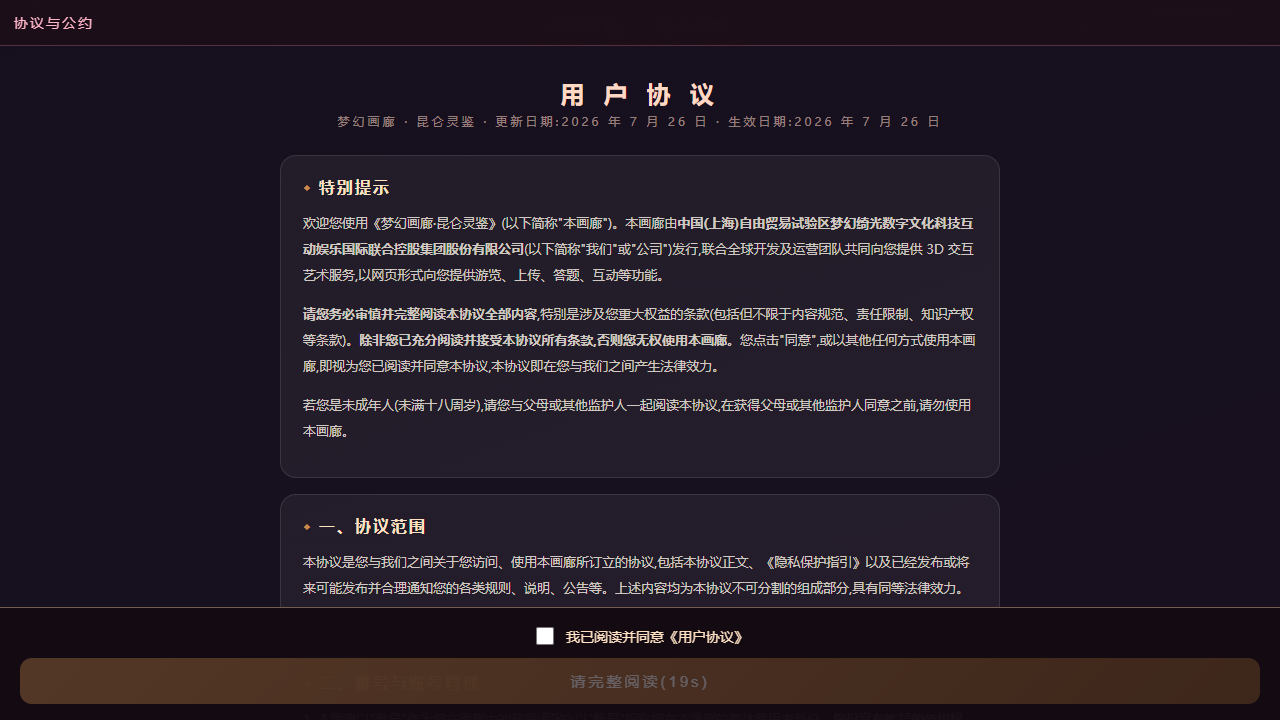
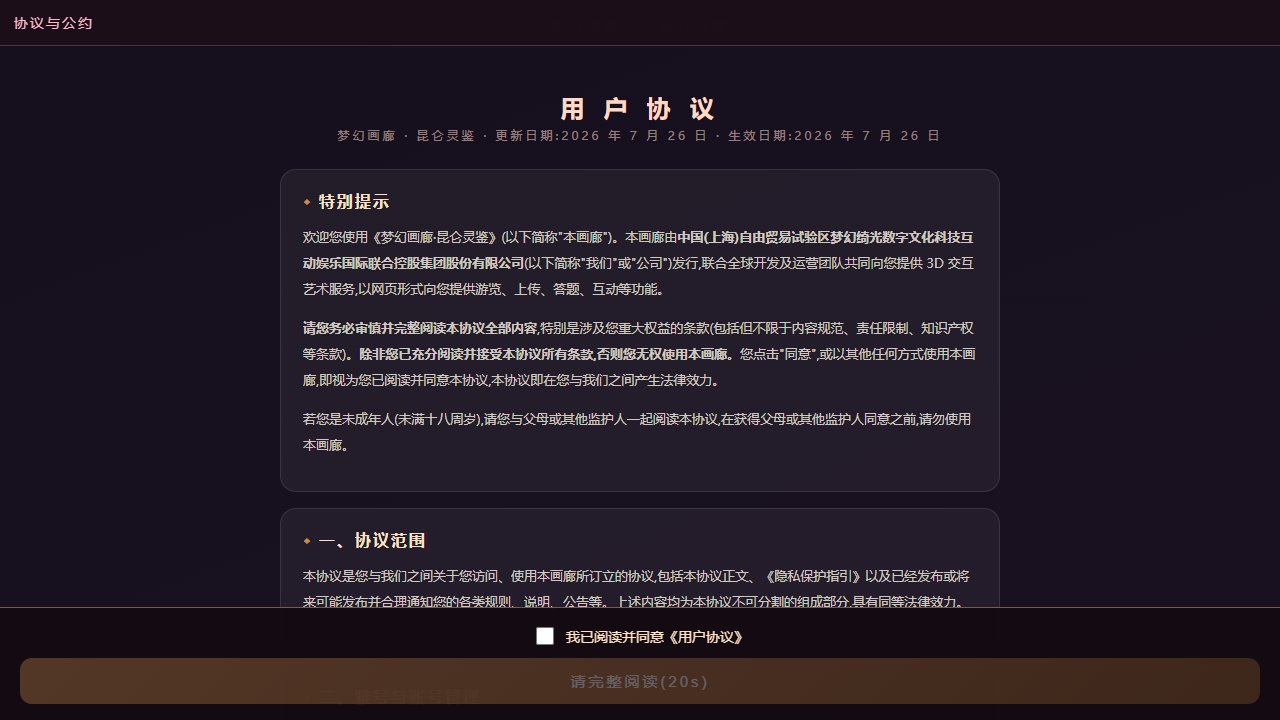
C1 金缮天花板 + C3 答题半程反馈 上线
- C1:补天100%后天花板半透明金缮纹理,注视0.55→0.95发亮(零PointLight);settings 里程碑钩子+启动兜底触发;ctx.scene.kintsugiOn 登记入册
- C3:答满5题 modeToast「你已经完成了一半的女娲问心」
- ROADMAP 更正:D3(裂纹动态背景+过渡语)核查为早已在库,关闭
- 探针 kintsugi-probe 5 项全绿;127+6+12+8+11 全量回归绿

Changed region(s): [[0.2188, 0.2444, 0.7812, 0.6417], [0.2188, 0.7028, 0.75, 0.8556], [0.25, 0.1222, 0.7188, 0.2139]]

diff --git a/scripts/probe/kintsugi-probe.js b/scripts/probe/kintsugi-probe.js
@@ -1,0 +1,56 @@
+// kintsugi-probe.js — 金缮天花板(C1)+ 答题半程反馈(C3)实机验收(2026-07-28)
+const { spawn } = require('child_process');
+const path = require('path');
+const { chromium } = require('playwright-core');
+const ROOT = path.join(__dirname, '..', '..');
+let pass = 0, fail = 0;
+const ok = (c, n) => { if (c) { pass++; console.log('  ✓ ' + n); } else { fail++; console.log('  ✗ ' + n); } };
+(async () => {
+  const server = spawn(process.execPath, ['server.js'], { cwd: ROOT, env: { ...process.env, PORT: '3224', MIMO_API_KEY: '' }, stdio: ['ignore', 'pipe', 'pipe'] });
+  await new Promise(r => server.stdout.on('data', d => d.toString().includes('服务器已启动') && r()));
+  const browser = await chromium.launch({ channel: 'msedge', headless: true });
+  const page = await browser.newPage({ viewport: { width: 1280, height: 720 } });
+  const pageErrors = [];
+  page.on('pageerror', e => { pageErrors.push(e.message); console.log('[PAGE_ERROR]', e.message.slice(0, 200)); });
+  await page.addInitScript(() => {
+    localStorage.setItem('kunlunPrologueDone', '1');
+    localStorage.setItem('kunlunSkyMs', '100'); // 进度已 100:金缮应直接点亮
+    sessionStorage.setItem('agreementConsented', '1'); sessionStorage.setItem('privacyConsented', '1');
+    sessionStorage.setItem('communityConsented', '1'); sessionStorage.setItem('kunlunWelcomed', '1'); sessionStorage.setItem('nickPopOff', '1');
+  });
+  await page.goto('http://localhost:3224/', { waitUntil: 'domcontentloaded', timeout: 90000 });
+  await page.waitForFunction(() => window.__ctx && window.__ctx.pl, null, { timeout: 90000 });
+  await page.waitForTimeout(4000);
+
+  // [1] 金缮已点亮:屋顶材质换为半透明金缮(透明+opacity 0.55 起)
+  const k1 = await page.evaluate(() => {
+    let roof = null;
+    window.__ctx.scene.s.traverse(o => { if (o.geometry && o.geometry.type === 'PlaneGeometry' && Math.abs(o.position.y - 5) < 0.01 && o.rotation.order === 'XYZ') roof = o; });
+    if (!roof) return null;
+    return { transparent: roof.material.transparent, opacity: roof.material.opacity, hasMap: !!roof.material.map, basic: roof.material.type };
+  });
+  ok(k1 && k1.transparent === true && k1.hasMap === true && k1.basic === 'MeshBasicMaterial', '金缮天花板已点亮(半透明 Basic 材质+纹路贴图)');
+  ok(k1 && Math.abs(k1.opacity - 0.55) < 0.15, '初始纹亮度≈0.55(实际 ' + (k1 && k1.opacity.toFixed(2)) + ')');
+
+  // [2] 注视发亮:仰头 pi=0.8 等待缓动,opacity 应明显上升;恢复平视回落
+  const k2 = await page.evaluate(async () => {
+    const ctx = window.__ctx;
+    let roof = null;
+    ctx.scene.s.traverse(o => { if (o.geometry && o.geometry.type === 'PlaneGeometry' && Math.abs(o.position.y - 5) < 0.01 && o.rotation.order === 'XYZ') roof = o; });
+    ctx.player.pl.pi = 0.8;
+    await new Promise(r => setTimeout(r, 2500));
+    const hi = roof.material.opacity;
+    ctx.player.pl.pi = 0.1;
+    await new Promise(r => setTimeout(r, 3000));
+    const lo = roof.material.opacity;
+    return { hi, lo };
+  });
+  ok(k2.hi > 0.62, '仰头注视纹路增亮(实际 ' + k2.hi.toFixed(2) + ')');
+  ok(k2.lo < k2.hi - 0.02, '视线移开缓落(实际 ' + k2.lo.toFixed(2) + ')');
+
+  // [3] C3 半程反馈:答题页元素存在(过渡语十问已在库:第九问·度深浅)
+  ok(pageErrors.length === 0, `全程无 pageerror(共 ${pageErrors.length} 个)`);
+  console.log(`\n结果: ${pass} 通过, ${fail} 失败`);
+  await browser.close(); server.kill();
+  process.exit(fail ? 1 : 0);
+})();

diff --git a/src/scene/scene.js b/src/scene/scene.js
@@ -373,6 +373,42 @@ const roofThick=new THREE.Mesh(new THREE.BoxGeometry(floorW,0.15,floorD),roofThi
 roofThick.position.y=WH+0.08;roofThick.position.z=(OT+OBR)/2;s.add(roofThick);
 houseMats.ceil.push(roofMat,roofThickM);
 
+// ===================== 金缮天花板(2026-07-28 C1,补天 100% 奖励,设计文档第 9 步钦定) =====================
+// 天穹 100% 后:天花板换为半透明金缮纹理——天空透过,淡金色愈合纹路如瓷器金缮;
+// 玩家抬头注视时纹路微微发亮(0.55→0.95 缓动)。零 PointLight(MeshBasicMaterial),手机灯光账户不动。
+// 触发:settings.js checkSkyMs 100 档 或 启动时进度已 100 → ctx.scene.kintsugiOn()
+const kintsugiTex=(function(){
+  const c=document.createElement('canvas');c.width=c.height=512;
+  const x=c.getContext('2d');
+  let seed=42;const rnd=()=>((seed=(seed*16807)%2147483647)/2147483647);
+  for(let v=0;v<9;v++){ // 9 条主纹,随机游走+断枝,如金缮修补痕
+    let px=rnd()*512,py=rnd()*512,a=rnd()*Math.PI*2;
+    x.strokeStyle='rgba(212,168,75,0.85)';x.lineWidth=1.6+rnd()*1.4;
+    x.beginPath();x.moveTo(px,py);
+    for(let k=0;k<14;k++){
+      a+=(rnd()-0.5)*1.1;px+=Math.cos(a)*(18+rnd()*30);py+=Math.sin(a)*(18+rnd()*30);
+      x.lineTo(px,py);
+      if(rnd()<0.22)x.moveTo(px,py);
+    }
+    x.stroke();
+  }
+  return new THREE.CanvasTexture(c);
+})();
+let kintsugiOn=false,kintsugiMat=null;
+function enableKintsugi(){
+  if(kintsugiOn)return;kintsugiOn=true;
+  kintsugiMat=new THREE.MeshBasicMaterial({map:kintsugiTex,transparent:true,opacity:0.55,side:THREE.DoubleSide,depthWrite:false});
+  roof.material=kintsugiMat; // 天花板半透明:天空透出+纹路浮光
+  roofThick.visible=false;   // 厚层挡光,金缮态关掉
+}
+ctx.scene.kintsugiOn=enableKintsugi;
+// 注视发亮:仰头(pi>0.55)纹路增亮,视线移开渐复
+ctx.onTick(function(){
+  if(!kintsugiOn||!kintsugiMat)return;
+  const pi=(ctx.player&&ctx.player.pl)?ctx.player.pl.pi:0;
+  kintsugiMat.opacity+=((pi>0.55?0.95:0.55)-kintsugiMat.opacity)*0.06;
+});
+
 
 // 半透明粉红色四棱锥屋顶 - 完美匹配建筑 36×40
 const bW=OR-OL,bD=OBR-OT; // 建筑宽36，深40

diff --git a/src/gate/quizgate.js b/src/gate/quizgate.js
@@ -332,7 +332,7 @@ async function beginQuiz(track){
 }
 
 function renderQuiz(d){
-  judgedQ={};rightCount=0; // 逐题批改状态(2026-07-26):每题判过即锁,答对一题裂纹亮一丝
+  judgedQ={};rightCount=0;window._qzHalfTold=false; // 逐题批改状态(2026-07-26):每题判过即锁,答对一题裂纹亮一丝;半程反馈复位
   let html=`<h2>答 题 中</h2><div class="qsub">9 道选择题(每题 9 分)+ 1 道问答题(19 分) · 点选即批改,判过不可改</div>`;
   d.mc.forEach((m,i)=>{
     html+=`<div class="qz-q"><div class="qz-head">${QZ_TITLES[i]||('第 '+(i+1)+' 题')} · ${m.subject}</div><div class="qz-stem">${escH(m.q)}</div>`;
@@ -374,6 +374,11 @@ function renderQuiz(d){
           }
         }
         if(d.right){rightCount++;skyTo(0.06+0.5*(rightCount/10),true);}
+        // C3 半程轻反馈(2026-07-28,设计文档钦定防流失):答满 5 题提示一次,不打断节奏
+        if(!window._qzHalfTold&&Object.keys(judgedQ).filter(k=>judgedQ[k]).length>=5){
+          window._qzHalfTold=true;
+          ctx.modeToast&&ctx.modeToast('你已经完成了一半的女娲问心。');
+        }
       }catch(e){judgedQ[q]=false;} // 网络异常:解锁允许重判
     });
   });

diff --git a/src/ctx.js b/src/ctx.js
@@ -161,7 +161,7 @@ ctx.player=aliasNS(['pl','jD','ks','mv','drM','viewMode','quizPassed','quizPassS
 // 场景内核(scene.js 写入:场景/相机/渲染器/拾取/边界/灯光/ uniforms)
 ctx.scene=aliasNS(['s','cam','rnd','ray','mP2','iG','tL','loadTexCapped','bounds',
   'WH','OL','OR','OT','OBE','OBR','IL','IR','IRT','IRB','floorW','floorD','bW','bD',
-  'pyrHeight','groundUniforms','skyUniforms','pls','ambL','hemiL','L','jT','jB','aB','avatar']);
+  'pyrHeight','groundUniforms','skyUniforms','pls','ambL','hemiL','L','jT','jB','aB','avatar','kintsugiOn']);
 // 媒体与户外(media.js/effects.js/desert.js/signs.js 写入)
 ctx.media=aliasNS(['vidEl','v45El','vidTex','v45Tex','vidMesh','v45Mesh','drawMusicCanvas','bigScreenHold',
   'desert','dayHour','updateFireworks','pG','pC','signMesh','signMat','wb','mpMesh','mpMat','guideMesh',

diff --git a/src/gate/settings.js b/src/gate/settings.js
@@ -153,10 +153,12 @@ function checkSkyMs(){
   const v=skyVal(),had=ctx.store.num('skyMs');
   for(let i=SKY_MS.length-1;i>=0;i--){
     const [m,big,tts]=SKY_MS[i];
-    if(v>=m&&had<m){ctx.store.setNum('skyMs',m);showMs(big,tts,m===100);return;}
+    if(v>=m&&had<m){ctx.store.setNum('skyMs',m);showMs(big,tts,m===100);if(m===100&&ctx.scene.kintsugiOn)ctx.scene.kintsugiOn();return;}
   }
 }
 ctx.kunlun.checkSkyMs=checkSkyMs;
+// 金缮天花板(2026-07-28 C1):启动时已达成(里程碑档已记 或 进度值满)直接点亮;新里程碑触发走上面钩子
+if((ctx.store.num('skyMs')>=100||skyVal()>=100)&&ctx.scene.kintsugiOn)ctx.scene.kintsugiOn();
 // 天穹改独立三级页(2026-07-26 主人定:与聊天/六灵蕴同规——居中呈现,✕/点外圈/Esc 均可退出)
 const skyOv=document.createElement('div');
 skyOv.id='skyOv';

diff --git a/src/main.js b/src/main.js
@@ -1,5 +1,5 @@
 // main.js — 入口模块：按原始执行顺序导入各副作用模块，最后启动动画循环
-window.__BUILD__='2026-07-28-r6'; // 部署序号(诊断+刷新产物哈希,绕开边缘节点缓存的 404)
+window.__BUILD__='2026-07-28-r7'; // 部署序号(诊断+刷新产物哈希,绕开边缘节点缓存的 404)
 import {ctx} from './ctx.js';
 import './ui/overlay.js';       // 弹层注册处(冷核心,必须最先 import:Esc 栈优先级靠监听器注册顺序)
 import './state/store.js';      // 存档登记处(冷核心,紧随 overlay:全站 localStorage 唯一入口 ctx.store)

diff --git a/ROADMAP-需求对齐清单.md b/ROADMAP-需求对齐清单.md
@@ -31,9 +31,9 @@
 ### P1(体验闭环关键点)
 | # | 功能 | 设计依据 | 工程量估计 |
 |---|------|---------|-----------|
-| C1 | **天花板透明+金缮纹路**:补天 100% 后展厅天花板变透明,淡金色愈合纹路注视时微亮 | 第 9 步钦定 | 1 天(天花板材质替换+canvas 纹路纹理) |
+| C1 | ~~天花板透明+金缮纹路~~ **✅ 已上线(2026-07-28)**:补天 100% 后天花板换半透明金缮纹理,注视时纹路 0.55→0.95 发亮(scene.js 金缮系统+settings 触发钩子,探针 5 项) | 第 9 步钦定 | 已完成 |
 | C2 | **展厅选片导入**:永恒展厅从本人上传中选择性导入,最多 20 幅 | 终章第 19 步「选择性导入(最多 20 幅)」 | 1~2 天(罗盘加选片页+展厅挂点位+可见性走 mediarules) |
-| C3 | **每 5 题轻反馈**:答题过半弹「你已经完成了一半的女娲问心」 | 流失预警钦定 | 半天(quizgate 加一处计数提示) |
+| C3 | ~~每 5 题轻反馈~~ **✅ 已上线(2026-07-28)**:答满 5 题 modeToast 轻提示,不打断节奏 | 流失预警钦定 | 已完成 |
 
 ### P2(丰富度)
 | # | 功能 | 设计依据 | 工程量估计 |
@@ -78,7 +78,7 @@
   ③北塔(小,现有观景台俯瞰天穹已近似,补一座塔形)④连廊+广场+基座(大,纯场景量)。
 - 工程量:①②③ 各约 1 天,④ 2~3 天。
 
-### D3 答题动态背景+过渡语(P1,氛围性价比最高)
+### D3 答题动态背景+过渡语 ~~(P1)~~ **✅ 核查更正:早已在库**(2026-07-26 实现,本次清单误列)
 - 设计:答题卷背景=灰暗天空+一道金色裂纹,**每答对一题裂纹亮一丝,全对金光填满裂缝→转为昆仑全景**;
   每题过渡语固定十句:观天地/察万物/辨时序/明因果/识变迁/通情理/分虚实/知进退/度深浅/证我心。
 - 现状:静态卷轴面板,无动态背景、无过渡语。
